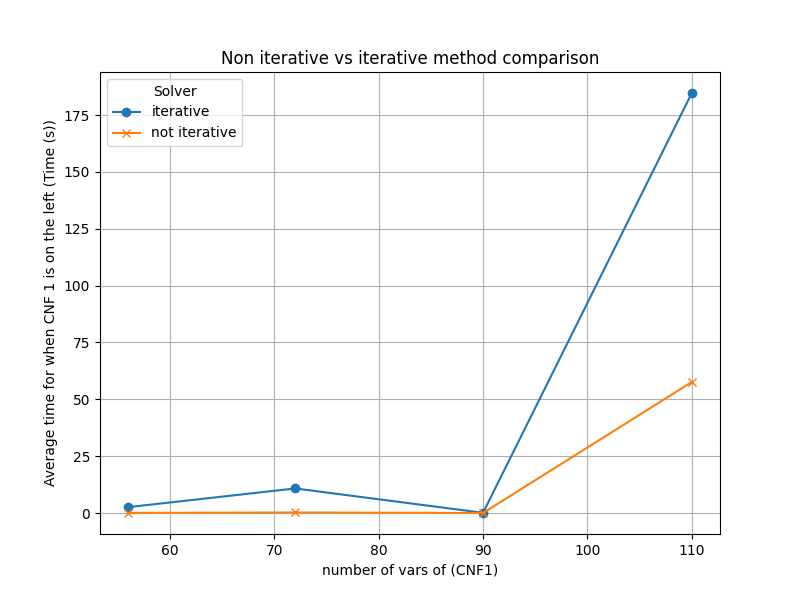
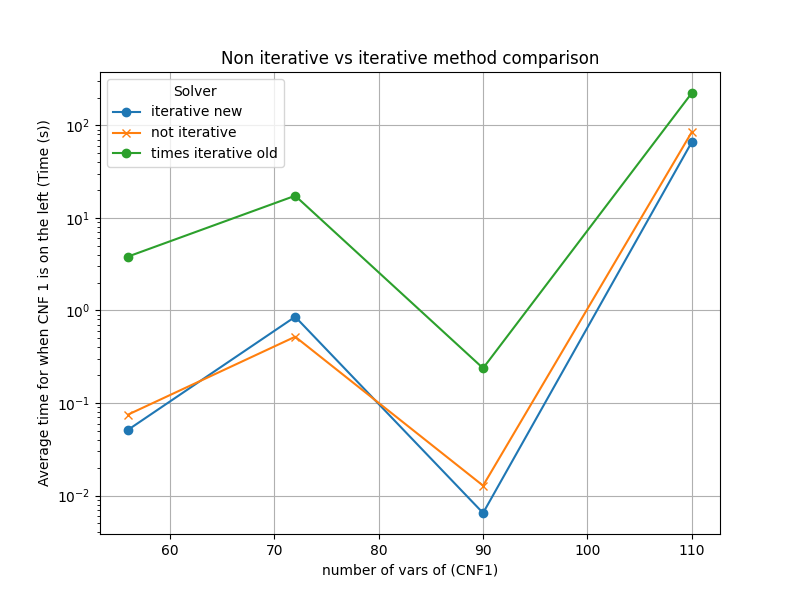
feat(solving tasks): added old vs new iterative method

diff --git a/solving_tasks/equivalences/experiment.py b/solving_tasks/equivalences/experiment.py
@@ -9,7 +9,7 @@ import matplotlib.pyplot as plt
 sys.path.append(os.path.abspath(os.path.join(os.path.dirname(__file__), '..\\..')))
 
 from task23.experiments import collect_files, collect_files_ais
-from solution import iterative_mathod, non_iterative_method
+from solution import iterative_method, non_iterative_method, iterative_method_old
 
 def parse_inputs(input_type, path_prefix):
     if input_type == "ais":
@@ -43,11 +43,10 @@ if __name__ == "__main__":
     path_prefix="..\\..\\task23"
     file_names = parse_inputs(args.type,path_prefix)
     
-    total_time_non_iteratice = 0
-    total_time_iterative = 0
     number_of_equivalences = 0 # this should be > 1
 
-    times_it = []
+    times_it_old = []
+    times_it     = []
     times_not_it = []
 
     implication_matrix = [
@@ -59,40 +58,38 @@ if __name__ == "__main__":
             print(i)
             cnf = CNF(from_file=file)
             x.append(cnf.nv)
-            total_time_i_iterative = 0
-            total_time_i_non_iterative = 0
-            N = 0
-            for j in range(len(file_names)):
-                N +=1
-                cnf2 = CNF(from_file=file_names[j])
-                stats_left_to_right1 = iterative_mathod(cnf,cnf2)
-                stats_left_to_right2 = non_iterative_method(cnf,cnf2)
-                total_time_i_iterative  += stats_left_to_right1["time"]
-                total_time_i_non_iterative  += stats_left_to_right2["time"]
-                implication_matrix[i][j] = stats_left_to_right1["implied"]
+            methods_times = [
+                (iterative_method, times_it),
+                (iterative_method_old,  times_it_old),
+                (non_iterative_method, times_not_it)
+            ]
+            for method,  tim in methods_times:
+                time_tot = 0
+                N = 0
+                for j in range(len(file_names)):
+                    N +=1
+                    cnf2 = CNF(from_file=file_names[j])
+                    stats_left_to_right = method(cnf,cnf2)
+                    implication_matrix[i][j] = stats_left_to_right["implied"]
 
-                assert(stats_left_to_right1["implied"] \
-                       == stats_left_to_right2["implied"])
-                total_time_iterative = total_time_iterative + \
-                    stats_left_to_right1["time"] 
-                    
-                total_time_non_iteratice = total_time_non_iteratice +\
-                    stats_left_to_right2["time"] 
-            times_it.append(total_time_i_iterative / N)
-            times_not_it.append(total_time_i_non_iterative / N)
+                    assert(stats_left_to_right["implied"] \
+                            == stats_left_to_right["implied"])
+                    time_tot += stats_left_to_right["time"]
+                tim.append(time_tot / N)
         number_of_equivalences = sum(
             sum(1 for j in range(len(implication_matrix)) if implication_matrix[i][j] and implication_matrix[j][i])
                 for i in range(len(implication_matrix))
         ) 
-        print("average_time_iterative: ", total_time_iterative/len(times_it),file=f)
-        print("average_time_non_iterative: ", total_time_non_iteratice/len(times_it),file=f)  
+        print("average_time_iterative_new: ", sum(times_it)/len(times_it),file=f)
+        print("average_time_iterative_old: ", sum(times_it_old)/len(times_it),file=f)
+        print("average_time_non_iterative: ", sum(times_not_it)/len(times_it),file=f)  
         print("number of equivalences: ", number_of_equivalences,file=f)             
         
         plt.figure(figsize=(8,6))
 
-        plt.plot(x,times_it, marker="o", label="iterative")
+        plt.plot(x,times_it, marker="o", label="iterative new")
         plt.plot(x,times_not_it, marker="x", label="not iterative")
-
+        plt.plot(x,times_it_old, marker = "o", label = "times iterative old")
         plt.xlabel("number of vars of (CNF1)")
         plt.ylabel("Average time for when CNF 1 is on the left (Time (s))")
         plt.yscale("log")

diff --git a/solving_tasks/equivalences/solution.py b/solving_tasks/equivalences/solution.py
@@ -51,7 +51,7 @@ def non_iterative_method(F : CNF, Alpha : CNF)->dict:
         "implied" : not sat,
         "time": toc - tic
     } 
-def iterative_mathod(F: CNF, Alpha : CNF)->tuple[bool,float]:
+def iterative_method_old(F: CNF, Alpha : CNF)->tuple[bool,float]:
     tic = time.perf_counter()
     for clause in Alpha.clauses:
         solver = Minisat22(use_timer=True)
@@ -67,6 +67,25 @@ def iterative_mathod(F: CNF, Alpha : CNF)->tuple[bool,float]:
         "implied" : True,
         "time": toc - tic
     } 
+def iterative_method(F: CNF, Alpha: CNF) -> dict:
+    tic = time.perf_counter()
+
+    # initialize solver ONCE with base formula F
+    with Minisat22(bootstrap_with=F.clauses, use_timer=True) as solver:
+        for clause in Alpha.clauses:
+            assumptions = [-lit for lit in clause]
+            for assumption in assumptions:
+                sat = solver.solve(assumptions=[assumption])
+                if sat:
+                    return {
+                        "implied": False,
+                        "time": time.perf_counter() - tic
+                    }
+    toc = time.perf_counter()
+    return {
+        "implied": True,
+        "time": toc - tic
+    }
 if __name__ == "__main__":
     # we do implication from left to right
     ap = argparse.ArgumentParser(description="Running experiments on bacbone.")
@@ -82,7 +101,7 @@ if __name__ == "__main__":
         cnf2 = CNF(from_file=args.input_file2)
         is_implied_left_to_right = None
         if args.solver == "it":
-            is_implied_left_to_right = iterative_mathod
+            is_implied_left_to_right = iterative_method
         elif args.solver == "n":
             is_implied_left_to_right = non_iterative_method
 
